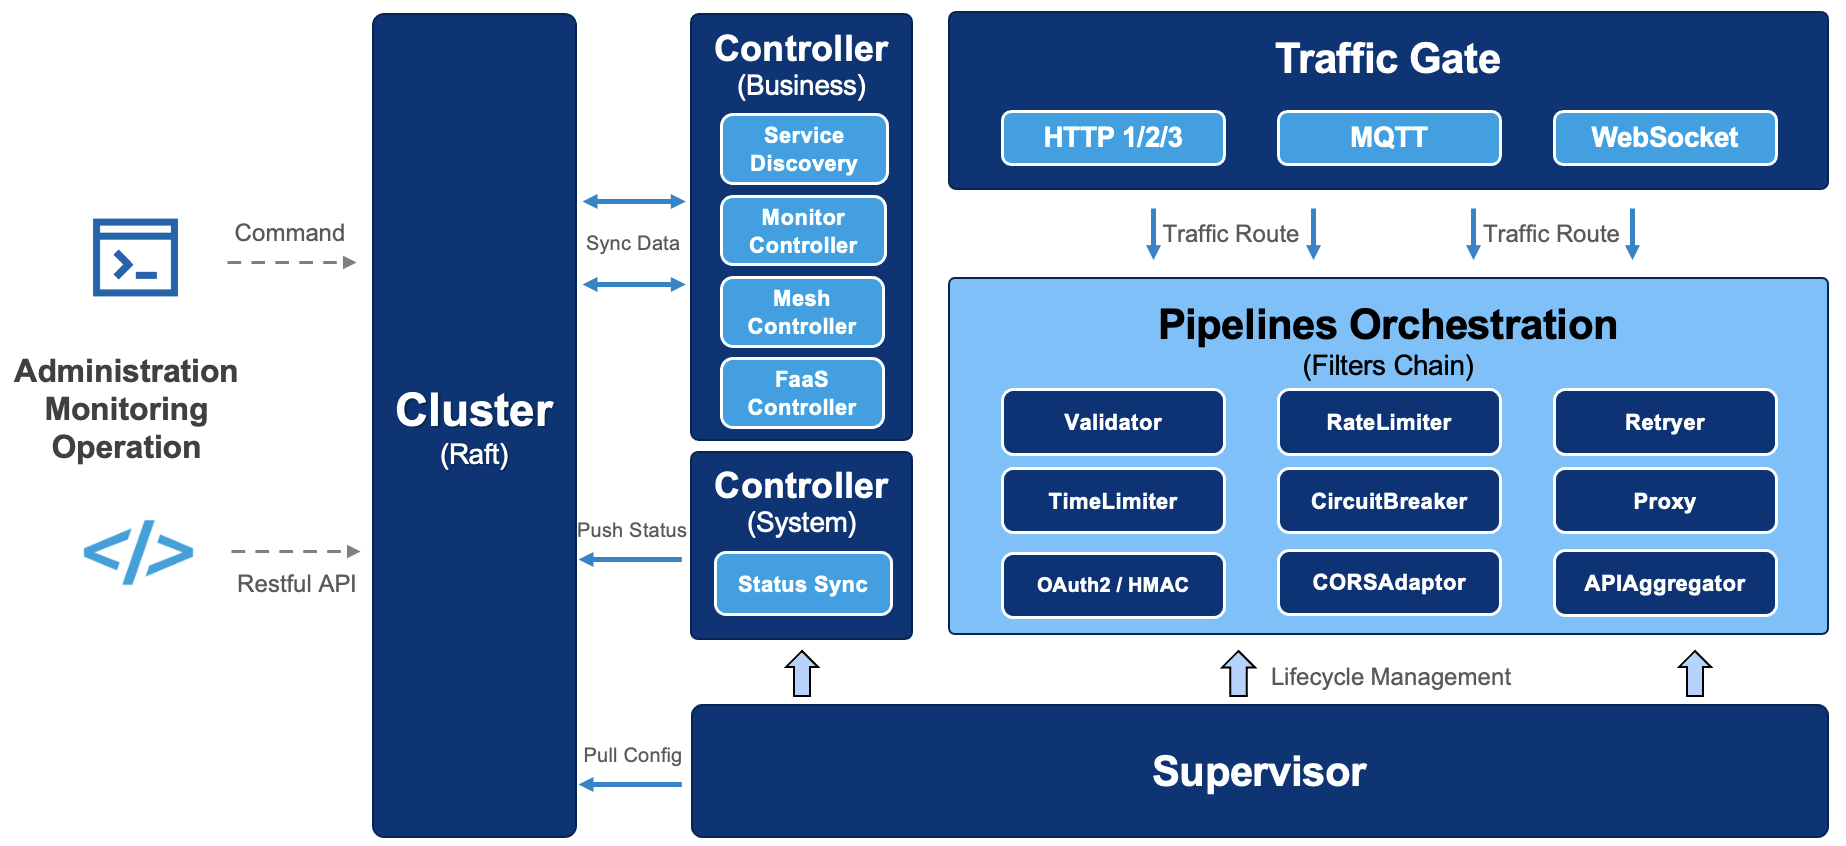
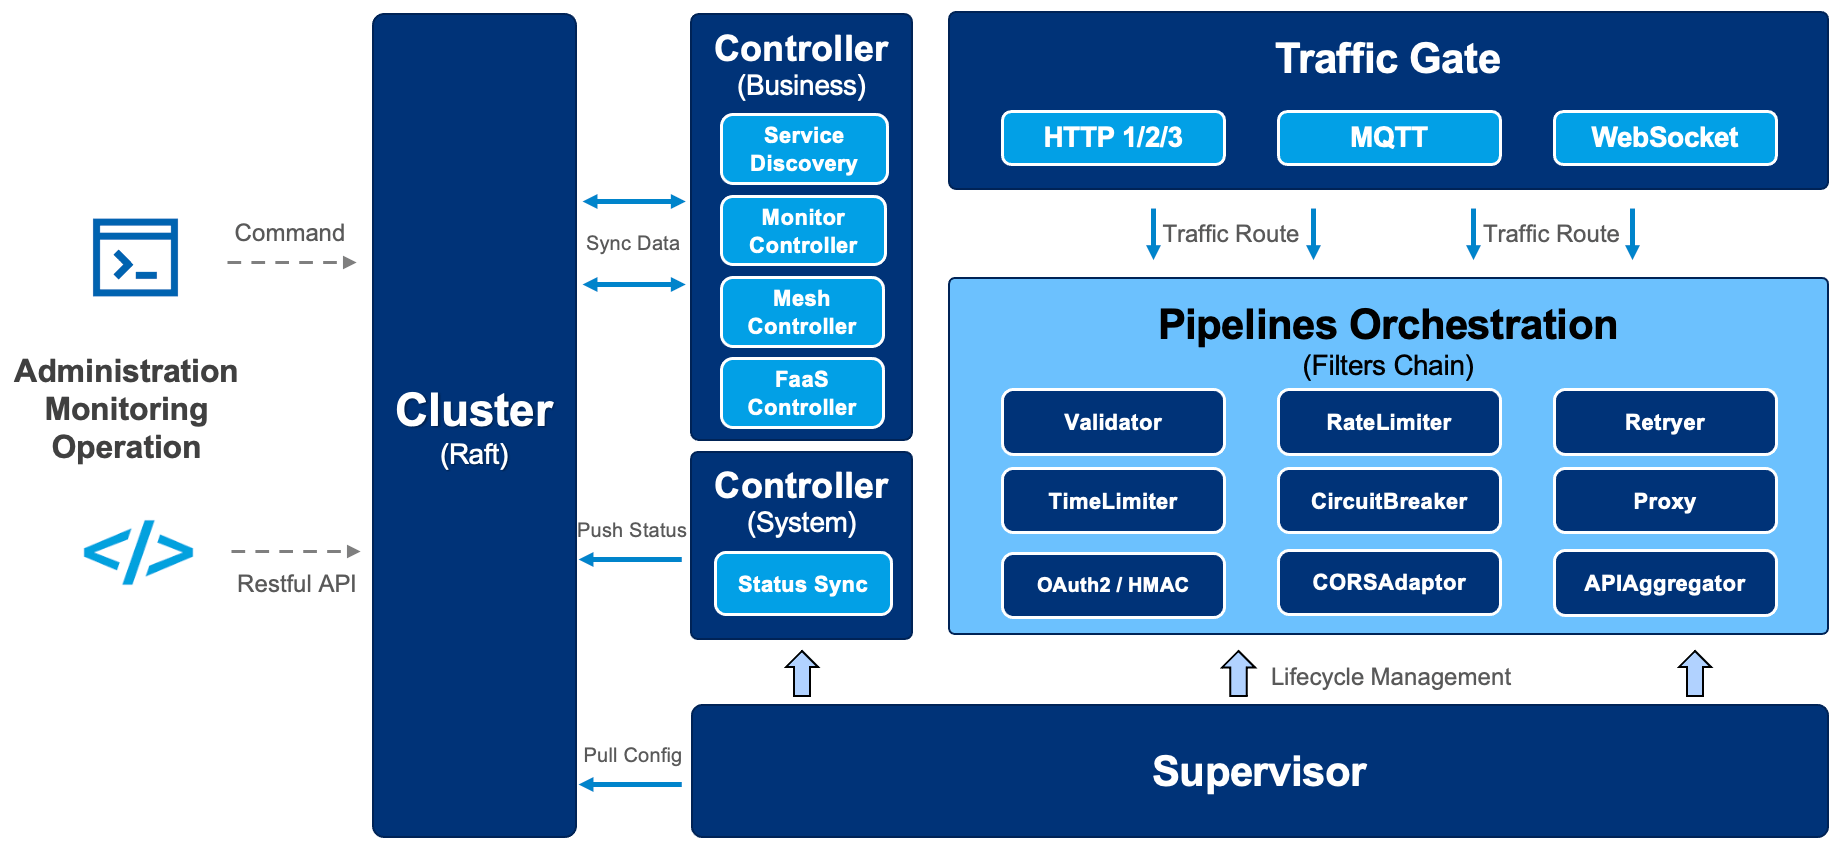
[doc] add roadmap and compress pics

diff --git a/doc/ROADMAP.md b/doc/ROADMAP.md
@@ -1,0 +1,32 @@
+# 2021 Easegress Roadmap
+This is what we hope to accomplish in 2021.
+
+## Goal
+* To be an extensible cloud-native traffic-specific platform.
+
+### Breakdowns
+1. Easegress works as a traffic orchestration system originally. It must be **traffic-specific**. It is implemented to solve users’ traffic dealing requirements and problems. With EG, users can empower their business capabilities,e.g., using EG to support Flash-sale activity, protecting their core APIs at peak time, and orchestrating their existing APIs for new business logic.
+2. Easegress aims to become an **extensible** platform under the traffic-specific domain. Users can choose to orchestrate ingress/egress traffic via existing filters in a pipeline or customize a brand-new filter/controller for their special traffic-specific business logic. With stable, clean, flat software architecture, users can develop their own filter/controller rapidly and easily. 
+3. Easegress is designed to be **cloud-native**. It's scalable, resilient, manageable, and observable. During rapid development in the future, these genes should be preserved inside.
+
+## Roadmap 
+### Extensibility
+
+| Name                         | Priority | Status    | Description                                                                                                                         |
+| ---------------------------- | -------- | --------- | ----------------------------------------------------------------------------------------------------------------------------------- |
+| WASM runtime embedding       | High     | in design | Supporting users' customized business logic hot-loading by source code with the help of  WASM.                                      |
+| Operation Enhancement        | High     | in design | For better supporting daily cluster operation routine,e.g., one-click installation supported, cluster scaling.                      |
+| Traffic-controller           | High     | planing   | Managing `pipeline` and `traffic gate` by this new added controller. Keeping this low-level resource management logic in one place. |
+| Controller/Filter versioning | Middle   | plaining  | Providing version in `Controller/Filter`. The user can specified the desired version to use them.                                   |
+| Protobuf models generating   | Low      | plaining  | Using `Protobuf` to generate EG inner objects and related docs.                                                                     |
+
+
+
+###  Traffic-specific
+
+| Name                          | Priority | Status    | Description                                                                                  |
+| ----------------------------- | -------- | --------- | -------------------------------------------------------------------------------------------- |
+| Traffic coloring              | High     | in design | Supporting coloring ingress traffic by adding special HTTP header according to users' model. |
+| FaaS-controller               | Middle   | planing   | Implementing Knative integrating, function life-cycle management inside a new controller.    |
+| More protocol supporting      | Middle   | plaining  | Such as MQTT, gRPC..                                                                         |
+| Kubernetes Ingress controller | Low      | plaining  | Adapting EG into a Kubernetes Ingress controller.                                            |
